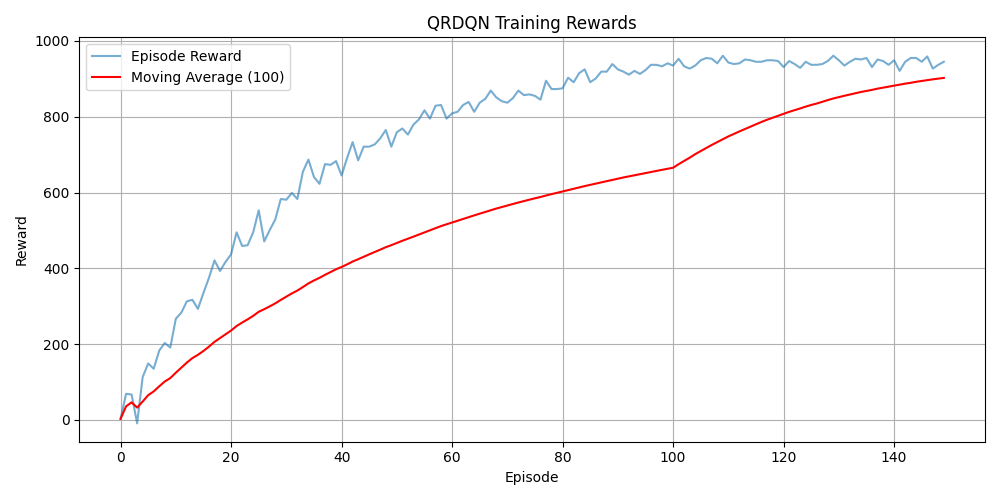
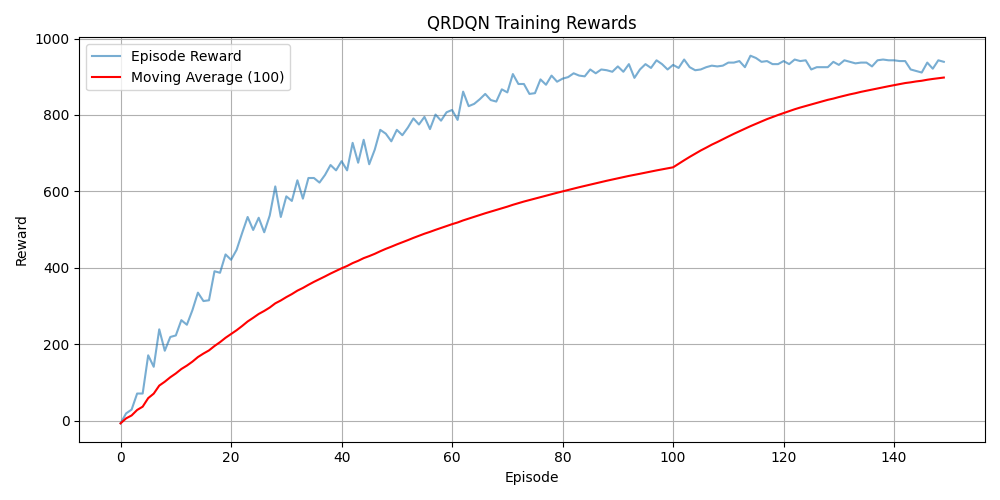
updated readme

diff --git a/submission/README.md b/submission/README.md
@@ -1,9 +1,18 @@
-#watch video to see explanation on how to set up environment
-#install python 3.7
-#create conda env and install these dependencies 
+# DRL-Based Anomaly Detection System (QR-DQN)
+
+This project implements a Deep Reinforcement Learning anomaly detection model using the NSL-KDD dataset. The upgraded QR-DQN architecture improves stability, handles class imbalance, and achieves significantly higher anomaly recall than the baseline code from the public GitHub repository.
+
+## Environment Setup
+(Refer to the video walkthrough if provided for a full setup demonstration.)
+
+This project requires **Python 3.7**.  
+Below is the recommended Conda setup:
 
 conda create -n drl python=3.7
 conda activate drl
 
 pip install numpy==1.21.6 tensorflow==2.10.1 matplotlib==3.5.3 scikit-learn==1.0.2 seaborn==0.11.2 gym==0.26.2 pandas==1.3.5 scipy==1.7.3 tqdm scapy
-python mainHpcc.py
+
+running the project
+
+python main.py
